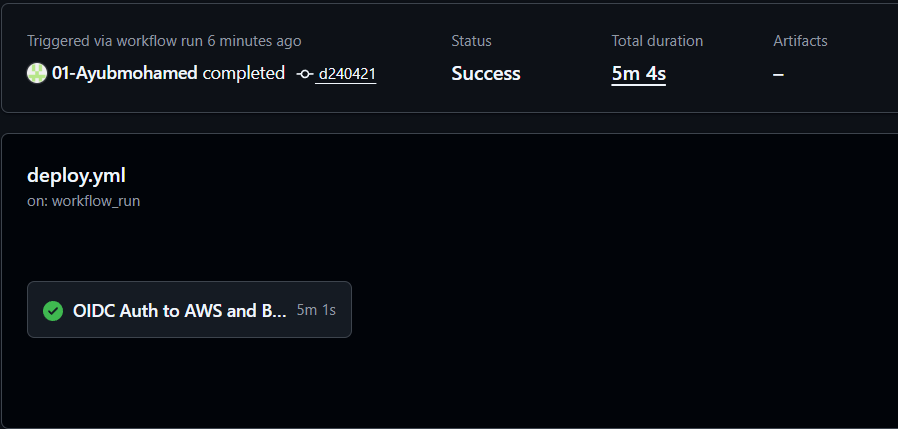
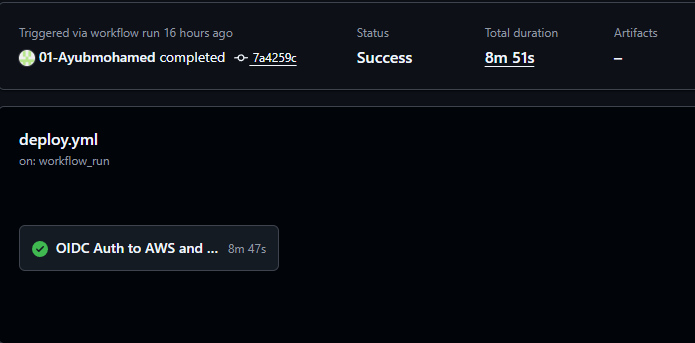
fix: add latest pipeline runs with accurate time and image  caption change [skip ci]

diff --git a/README.md b/README.md
@@ -32,7 +32,7 @@ https://github.com/user-attachments/assets/de26553d-df30-4a47-a1b8-205add41835c
 
 * **CI/CD Authentication:** Every pipeline (build, deploy, terraform) is authenticated through AWS via GitHub using short-lived access tokens (OIDC). Each role is scoped to the exact permission required, following Role-Based Access Control (RBAC) protocols. Vulnerabilities and flaws in the cloud environment are avoided by not storing static AWS credentials in the repository. 
 
-* **Health Gate for ECS Deployment:** A Health Gate in `deploy.yml` checks if ECS service exists and is stable, before initialising deployment. `build.yml` and `terraform.yml` create infrastructure and an image simultaneously, causing deploy.yml to run ahead and return “/gatus-service is MISSING”. A feature similar to ArgoCD's (sync wave) is introduced. Deployment is suspended until the wait for the ECS service stage returns “ECS service is stable and ready for deployment”. This increased the wait time to more than double (from 3m 52s to 8m 47s) but ensured a successful deployment.
+* **Health Gate for ECS Deployment:** A Health Gate in `deploy.yml` checks if ECS service exists and is stable, before initialising deployment. `build.yml` and `terraform.yml` create infrastructure and an image simultaneously, causing deploy.yml to run ahead and return “/gatus-service is MISSING”. A feature similar to ArgoCD's (sync wave) is introduced. Deployment is suspended until the wait for the ECS service stage returns “ECS service is stable and ready for deployment”. This increased the wait time to more than double (from 3m 52s to 8m 51s) but ensured a successful deployment.
 
 ## Project Layout
 
@@ -257,7 +257,7 @@ terraform destroy
 
 ---
 
-### Deploy Pipeline downloads and renders task definitions before deploying to ECS.
+### Deploy Pipeline with Health Gate for stable ECS service before deployment. 
 ![Deploy Pipeline](Images/gatus-deploy-pipeline.png)
 
 ---
